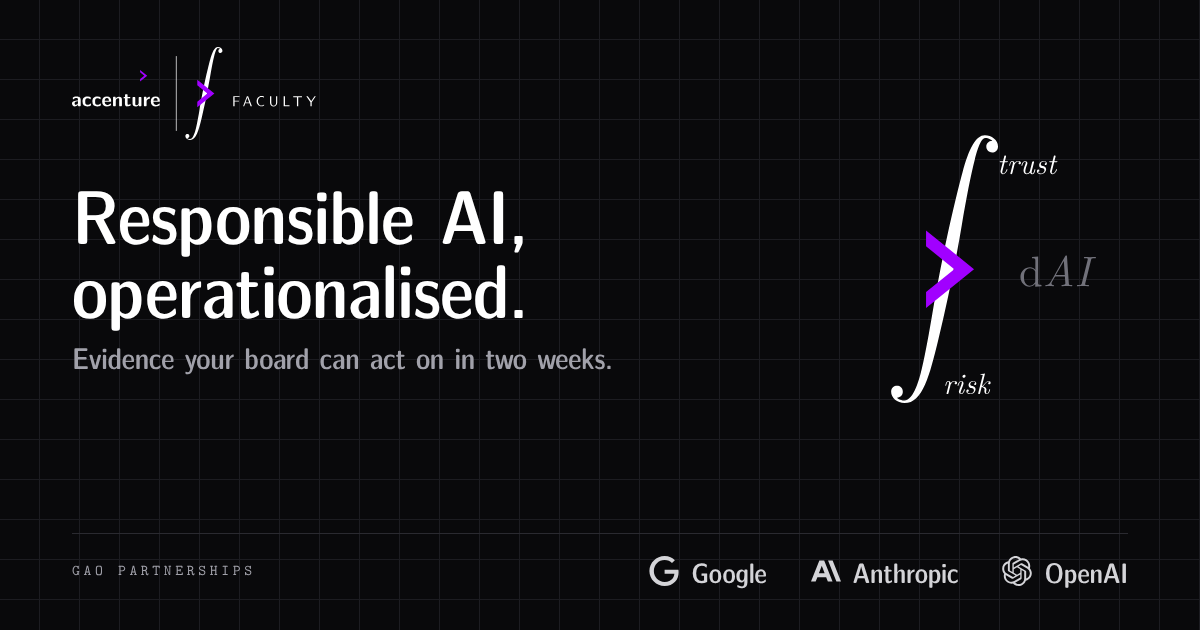
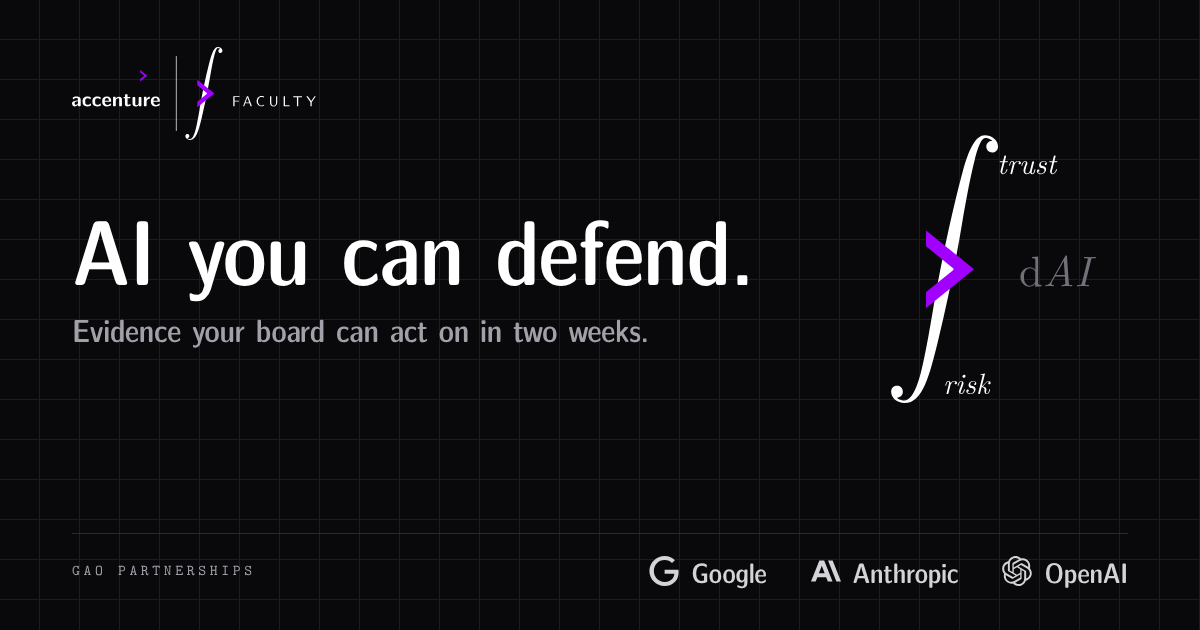
New headline, how it works strip, quote, one pager button, analytics hook (#24)
Claude-Session: https://claude.ai/code/session_01Lg8vxVPUcR7bjTzfhh8AxX

Changed region(s): [[0.0617, 0.3016, 0.6475, 0.6032]]

diff --git a/site/src/data/site.ts b/site/src/data/site.ts
@@ -292,3 +292,23 @@ export const facultyFacts = [
 export const contacts: { firm: string; name?: string; title?: string; mail?: string; mailImg?: string }[] = [
   { firm: 'Accenture', name: 'Kedus Bekele', mail: 'bW9jLmVydXRuZWNjYUBlbGVrZWIuc3VkZWs=', mailImg: '/contact/kedus.png' },
 ];
+
+// Landing page "how it works" strip under the hero.
+export const howItWorks = [
+  { key: 'assess', title: 'Assess', body: 'Baseline every AI system against your own policies.', href: '#assess' },
+  { key: 'govern', title: 'Govern', body: 'Turn findings into owned controls and decision rights.', href: '#govern' },
+  { key: 'redteam', title: 'Red team', body: 'Attack your models and agents before anyone else does.', href: '#assure' },
+  { key: 'monitor', title: 'Monitor', body: 'Retest continuously so the evidence stays current.', href: '#implement' },
+];
+
+// Landing page quote. Attribution requested as Abraham Lincoln; the line is also
+// widely credited to Peter Drucker or Alan Kay. Change `who` here if needed.
+export const landingQuote = {
+  text: 'The best way to predict the future is to create it.',
+  who: 'Abraham Lincoln',
+};
+
+// Cloudflare Web Analytics. Paste the site token from the Cloudflare dashboard
+// (Analytics and logs, Web Analytics, acnr.ai, Manage site, JS snippet) to turn
+// the beacon on. Empty means no analytics script is loaded.
+export const CF_ANALYTICS_TOKEN = '';
